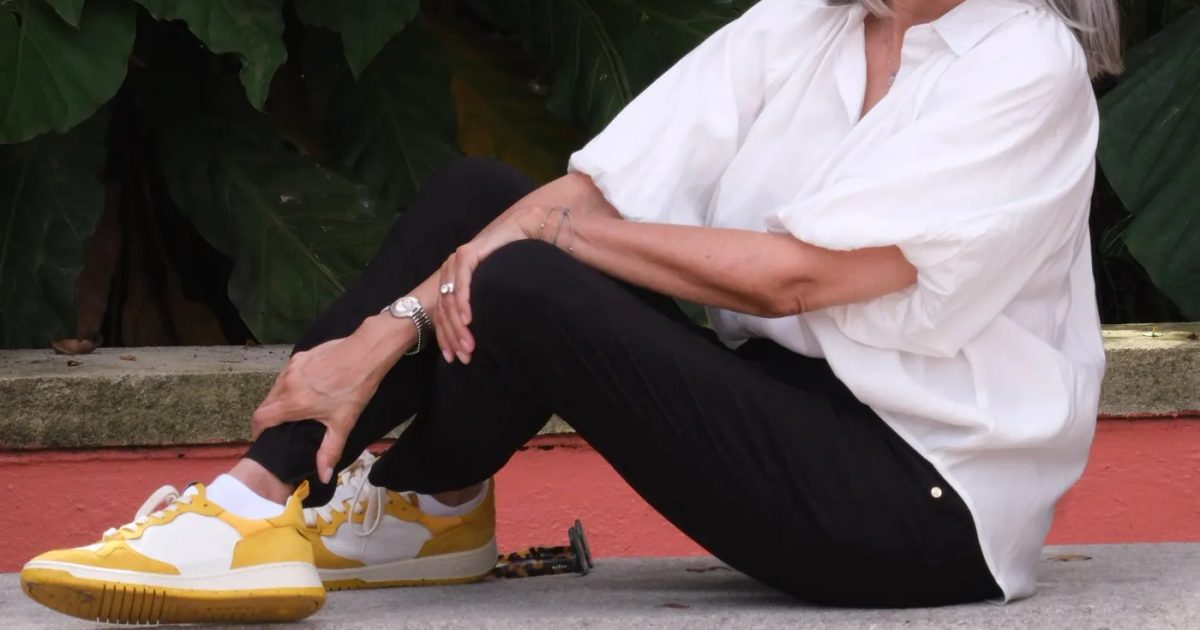
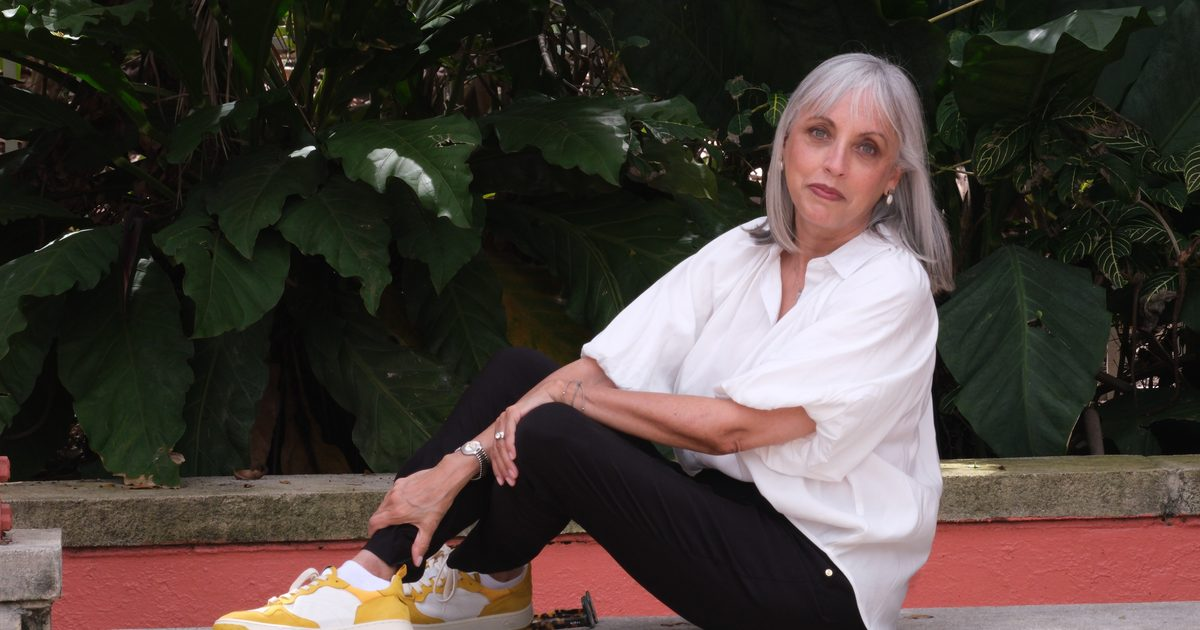
Fotos sin recortes: hero centrado desde el original y galerías en su proporción

diff --git a/app/globals.css b/app/globals.css
@@ -119,8 +119,8 @@ em, i { font-style: italic; }
 .hero h1 { margin: 18px 0 22px; }
 .hero h1 em { color: var(--piedra); }
 .hero .lead { font-size: 18px; color: #3b3936; max-width: 30em; margin-bottom: 26px; }
-.hero .foto { position: relative; height: 380px; overflow: hidden; }
-.hero .foto img { width: 100%; height: 100%; object-fit: cover; object-position: 50% 35%; }
+/* Las fotos se muestran en su proporción: nunca se recorta a Lina */
+.hero .foto img { width: 100%; height: auto; }
 
 /* DESTACADO SOBREVIVIR */
 .feature { background: var(--c-noche); color: var(--c-crema); }
@@ -245,8 +245,8 @@ em, i { font-style: italic; }
 .cita blockquote p { font-family: var(--f-titulo), serif; font-style: italic; font-size: clamp(24px, 3.4vw, 34px); line-height: 1.3; }
 .cita cite { display: block; margin-top: 18px; font-family: var(--f-ui), sans-serif; font-style: normal; font-size: 13px; letter-spacing: 0.14em; text-transform: uppercase; color: var(--acc); }
 .bk-galeria { padding: 40px 0 70px; }
-.galeria { display: grid; grid-template-columns: repeat(2, 1fr); gap: 12px; margin-top: 18px; }
-.galeria img { aspect-ratio: 4 / 5; object-fit: cover; width: 100%; height: auto; }
+.galeria { columns: 2; column-gap: 12px; margin-top: 18px; }
+.galeria img { width: 100%; height: auto; margin-bottom: 12px; break-inside: avoid; }
 .cartas-ficha { background: var(--papel); border: 0; }
 .otros { padding: 56px 0 70px; }
 .otros .mini { list-style: none; display: grid; grid-template-columns: 1fr 1fr; gap: 20px; margin-top: 22px; }
@@ -264,7 +264,7 @@ em, i { font-style: italic; }
 /* SOBRE LINA */
 .about { padding: 44px 0 56px; }
 .about .wrap { display: grid; gap: 34px; align-items: start; }
-.about .retrato img { width: 100%; aspect-ratio: 4 / 5; object-fit: cover; }
+.about .retrato img { width: 100%; height: auto; }
 .about h1 { margin: 10px 0 20px; }
 .about p { margin-bottom: 16px; }
 .about .quote { font-family: var(--f-titulo), serif; font-style: italic; font-size: 24px; line-height: 1.35; margin: 24px 0; padding-left: 20px; border-left: 3px solid var(--tinta); }
@@ -279,8 +279,8 @@ em, i { font-style: italic; }
 .timeline .y i { display: block; height: 4px; width: 40px; margin: 12px 0 12px; border-radius: 2px; }
 .timeline ul { list-style: none; font-size: 15.5px; line-height: 1.45; color: #46433f; }
 .timeline li li { margin-bottom: 6px; }
-.fotos { display: grid; grid-template-columns: 1fr 1fr; gap: 12px; padding: 56px 0; }
-.fotos img { width: 100%; height: 100%; aspect-ratio: 1; object-fit: cover; }
+.fotos { columns: 2; column-gap: 12px; padding: 56px 0; }
+.fotos img { width: 100%; height: auto; margin-bottom: 12px; break-inside: avoid; }
 
 /* AGENDA */
 .agenda { padding: 50px 0 70px; }
@@ -319,7 +319,8 @@ em, i { font-style: italic; }
   .hero .wrap { grid-template-columns: 0.92fr 1.08fr; gap: 56px; align-items: end; padding-top: 70px; }
   .hero .txt { padding-bottom: 84px; }
   .hero .lead { font-size: 21px; margin-bottom: 36px; }
-  .hero .foto { height: 620px; }
+  .hero .wrap { align-items: center; padding-bottom: 70px; }
+  .hero .txt { padding-bottom: 0; }
 
   .feature .wrap { grid-template-columns: 340px 1fr; gap: 72px; align-items: center; padding-top: 90px; padding-bottom: 90px; }
   .feature .cover-wrap { width: auto; padding: 22px; }
@@ -345,7 +346,7 @@ em, i { font-style: italic; }
   .bk-hero .cv-wrap { width: auto; }
   .ficha-noche .bk-hero .cv-wrap { padding: 22px; }
   .bk-desc { padding: 80px 0 40px; }
-  .galeria { grid-template-columns: repeat(4, 1fr); }
+  .galeria { columns: 3; column-gap: 14px; }
   .otros .mini { grid-template-columns: repeat(4, 1fr); }
 
   .about { padding: 80px 0; }
@@ -353,9 +354,8 @@ em, i { font-style: italic; }
   .porque .cols { grid-template-columns: 1.1fr 1fr; gap: 60px; }
   .timeline { padding: 80px 0; }
   .timeline ol { grid-template-columns: repeat(5, 1fr); gap: 20px; }
-  .fotos { grid-template-columns: 2fr 1fr 1fr; grid-template-rows: 240px 240px; padding: 80px 0; }
-  .fotos img { aspect-ratio: auto; }
-  .fotos img:first-child { grid-row: 1 / 3; }
+  .fotos { columns: 3; column-gap: 14px; padding: 80px 0; }
+  .fotos img { margin-bottom: 14px; }
   .invitaciones { grid-template-columns: repeat(4, 1fr); }
   .cabeza-pagina { padding: 80px 0 56px; }
 

diff --git a/app/sobre-lina/page.tsx b/app/sobre-lina/page.tsx
@@ -34,7 +34,7 @@ export default function SobreLina() {
       <section className="about">
         <div className="wrap">
           <div className="retrato">
-            <Image src="/img/foto-48.webp" alt="Retrato de Lina Henao sentada en un jardín" width={1400} height={1750} priority sizes="(min-width: 900px) 440px, 100vw" />
+            <Image src="/img/foto-48.webp" alt="Retrato de Lina Henao sentada en un jardín" width={1100} height={1069} priority sizes="(min-width: 900px) 440px, 100vw" />
           </div>
           <div>
             <p className="label">Sobre Lina</p>
@@ -113,11 +113,11 @@ export default function SobreLina() {
       <section>
         <div className="wrap">
           <div className="fotos">
-            <Image src="/img/foto-28.webp" alt="Lina Henao con un micrófono frente a una biblioteca" width={1400} height={1400} sizes="(min-width: 900px) 540px, 50vw" />
-            <Image src="/img/foto-19.webp" alt="Lina Henao leyendo en una feria del libro" width={1400} height={1400} sizes="(min-width: 900px) 270px, 50vw" />
-            <Image src="/img/foto-29.webp" alt="Lina Henao en una conversación en una librería" width={1400} height={1400} sizes="(min-width: 900px) 270px, 50vw" />
-            <Image src="/img/foto-23.webp" alt="Retrato de Lina Henao sonriendo" width={1400} height={1400} sizes="(min-width: 900px) 270px, 50vw" />
-            <Image src="/img/foto-09.webp" alt="Lina Henao escribiendo en una tableta al aire libre" width={1400} height={1400} sizes="(min-width: 900px) 270px, 50vw" />
+            <Image src="/img/foto-28.webp" alt="Lina Henao con un micrófono frente a una biblioteca" width={960} height={1280} sizes="(min-width: 900px) 360px, 50vw" />
+            <Image src="/img/foto-19.webp" alt="Lina Henao leyendo en una feria del libro" width={720} height={1280} sizes="(min-width: 900px) 360px, 50vw" />
+            <Image src="/img/foto-29.webp" alt="Lina Henao en una conversación en una librería" width={960} height={1280} sizes="(min-width: 900px) 360px, 50vw" />
+            <Image src="/img/foto-23.webp" alt="Retrato de Lina Henao sonriendo" width={373} height={414} sizes="(min-width: 900px) 360px, 50vw" />
+            <Image src="/img/foto-09.webp" alt="Lina Henao escribiendo en una tableta al aire libre" width={720} height={1280} sizes="(min-width: 900px) 360px, 50vw" />
           </div>
         </div>
       </section>

diff --git a/lib/libros.ts b/lib/libros.ts
@@ -16,7 +16,7 @@ export type Libro = {
   reconocimientos?: string[];
   citas?: { texto: string; autor: string }[];
   compra: Compra[];
-  galeria?: { src: string; alt: string }[]; // «El libro en el camino»
+  galeria?: { src: string; alt: string; w: number; h: number }[]; // «El libro en el camino»
   pendiente?: string; // nota visible mientras falte algo
 };
 
@@ -75,9 +75,8 @@ export const LIBROS: Libro[] = [
       { tienda: "firmado", texto: "Ejemplar firmado (Colombia)", url: FIRMADO },
     ],
     galeria: [
-      { src: "/img/foto-40.webp", alt: "Lina Henao en la FilBo con Esencia, voz y expresión" },
-      { src: "/img/foto-50.webp", alt: "Lina Henao con el libro y su sello de Mención de Honor" },
-      { src: "/img/foto-45.webp", alt: "Lina Henao en el escenario de la FilBo" },
+      { src: "/img/foto-40.webp", alt: "Lina Henao en la FilBo con Esencia, voz y expresión", w: 750, h: 750 },
+      { src: "/img/foto-45.webp", alt: "Lina Henao en el escenario de la FilBo", w: 960, h: 1280 },
     ],
   },
   {
@@ -95,7 +94,7 @@ export const LIBROS: Libro[] = [
       "Seleccionado en la convocatoria de autores autopublicados de la FilBo y de la Fiesta del Libro y la Cultura de Medellín",
     ],
     compra: [{ tienda: "amazon", texto: "Amazon", url: "https://www.amazon.com/dp/B0DNTZDBVC" }],
-    galeria: [{ src: "/img/foto-21.webp", alt: "Ejemplares de Ayer, hoy & mañana junto a un micrófono" }],
+    galeria: [{ src: "/img/foto-21.webp", alt: "Ejemplares de Ayer, hoy & mañana junto a un micrófono", w: 720, h: 1280 }],
   },
   {
     slug: "metaforas-de-vida",

diff --git a/app/libros/[slug]/page.tsx b/app/libros/[slug]/page.tsx
@@ -91,7 +91,7 @@ export default async function FichaLibro({ params }: PageProps<"/libros/[slug]">
             <p className="label">El libro en el camino</p>
             <div className="galeria">
               {l.galeria.map((g) => (
-                <Image key={g.src} src={g.src} alt={g.alt} width={600} height={750} sizes="(min-width: 900px) 270px, 50vw" />
+                <Image key={g.src} src={g.src} alt={g.alt} width={g.w} height={g.h} sizes="(min-width: 900px) 360px, 50vw" />
               ))}
             </div>
           </div>

diff --git a/app/page.tsx b/app/page.tsx
@@ -28,9 +28,10 @@ export default function Inicio() {
           </div>
           <div className="foto">
             <Image
-              src="/img/autora-color.webp"
+              src="/img/hero-lina.webp"
               alt="Lina Henao, sentada al aire libre frente a un jardín, con camisa blanca"
-              fill
+              width={1600}
+              height={1216}
               priority
               sizes="(min-width: 900px) 600px, 100vw"
             />
